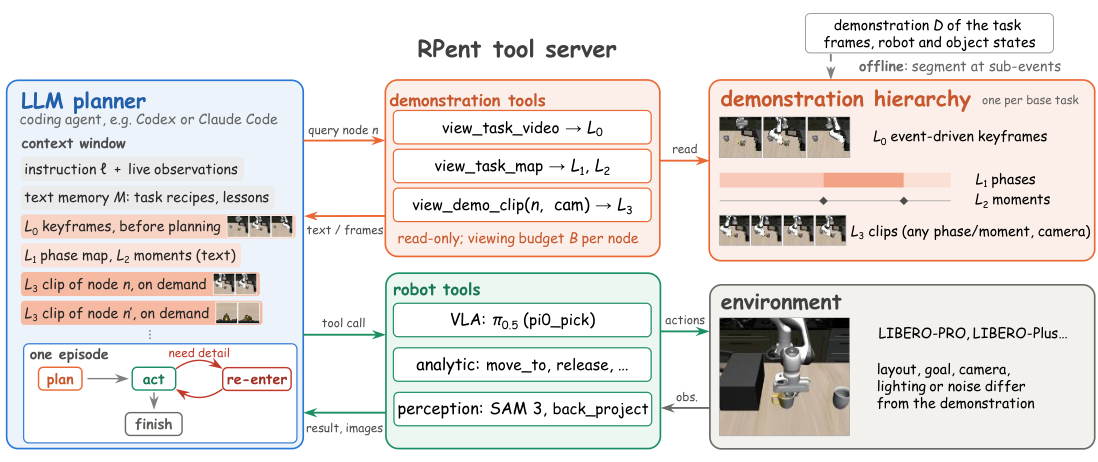
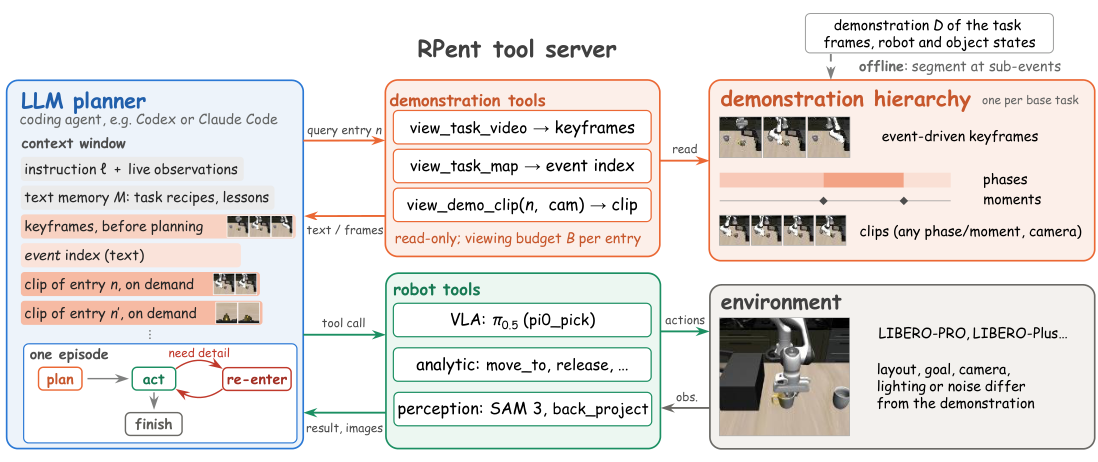
Hierarchy shown as keyframes and an event index

diff --git a/index.html b/index.html
@@ -210,6 +210,8 @@ p { margin: 0; }
 .lv-h { display: flex; gap: 10px; align-items: baseline; flex-wrap: wrap; }
 .lv-h strong { font-family: var(--display); font-stretch: 108%; font-weight: 700; font-size: 1rem; }
 .lv-h span.d { color: var(--ink-3); font-size: 14.5px; }
+.lv-h.sub strong { font-size: 0.92rem; font-weight: 600; }
+.lvgroup { display: flex; flex-direction: column; gap: 14px; min-width: 0; padding-left: 14px; border-left: 2px solid var(--line); }
 .kfstrip { display: grid; grid-template-columns: repeat(8, minmax(0, 1fr)); gap: 4px; }
 .kfb { border: 0; padding: 0; background: none; cursor: pointer; border-radius: 4px; overflow: hidden; outline-offset: 1px; }
 .kfb .kf { border-radius: 4px; }
@@ -378,7 +380,7 @@ footer a { color: var(--ink-2); }
   <header>
     <span class="eyebrow">Method</span>
     <h2>A demonstration the agent can navigate</h2>
-    <p>Each demonstration is indexed offline at four levels. The agent reads the coarse levels once, then returns for one clip at a time.</p>
+    <p>Each demonstration is indexed offline as keyframes plus an event index. The agent reads both once, then returns for one clip at a time.</p>
   </header>
   <figure class="figure">
     <div class="plate"><img src="assets/architecture.png" alt="Architecture of RV-ICL on RPent: the LLM planner calls demonstration tools that read the hierarchy and robot tools that act on the environment." width="1098" height="462"></div>
@@ -386,13 +388,13 @@ footer a { color: var(--ink-2); }
   </figure>
   <div class="steps">
     <div class="step">
-      <div class="lvrow"><span class="chip l0">L0</span><span class="chip l12">L1</span><span class="chip l12">L2</span><span class="when">before the first action</span></div>
-      <h3>Coarse levels before planning</h3>
-      <p>Keyframes and the phase map. No clip yet.</p>
+      <div class="lvrow"><span class="chip l0">keyframes</span><span class="chip l12">event index</span><span class="when">before the first action</span></div>
+      <h3>Read once before planning</h3>
+      <p>Keyframes and the event index. No clip yet.</p>
       <div class="tools"><code>view_task_video</code><code>view_task_map</code></div>
     </div>
     <div class="step">
-      <div class="lvrow"><span class="chip l3">L3</span><span class="when">before a contact, or after a failed step</span></div>
+      <div class="lvrow"><span class="chip l3">clip</span><span class="when">before a contact, or after a failed step</span></div>
       <h3>Re-entry during execution</h3>
       <p>One clip of the current sub-goal.</p>
       <div class="tools"><code>view_demo_clip</code></div>
@@ -416,7 +418,7 @@ footer a { color: var(--ink-2); }
 <section class="sec" id="hierarchy">
   <header>
     <span class="eyebrow">The demonstration hierarchy</span>
-    <h2>One demonstration, indexed at four levels</h2>
+    <h2>One demonstration: keyframes and an event index</h2>
     <p>Pick a phase or a moment to see the clip the agent would get.</p>
   </header>
   <div class="ex">
@@ -425,7 +427,7 @@ footer a { color: var(--ink-2); }
         <video id="exv" src="assets/demo.mp4" muted playsinline preload="auto"></video>
         <div class="viewtags"><span>third-person</span><span>wrist</span></div>
       </div>
-      <div class="ex-label"><span class="chip l3" id="ex-chip">L3</span><b id="ex-name">clip of grasp 2</b><span id="ex-range">steps 179–219</span><button class="pbtn" id="ex-play" type="button">Play</button></div>
+      <div class="ex-label"><span class="chip l3" id="ex-chip">clip</span><b id="ex-name">grasp 2</b><span id="ex-range">steps 179–219</span><button class="pbtn" id="ex-play" type="button">Play</button></div>
       <pre class="maptext" aria-label="The phase map the agent reads">phase 1 [0,62) open: approach
 phase 2 [62,109) closed: opens flat_stove_1
 phase 3 [109,203) open: retreat
@@ -436,11 +438,13 @@ goal: (And (Turnon flat_stove_1) (On moka_pot_1 flat_stove_1_cook_region))</pre>
     </div>
     <div class="ex-levels">
       <div class="lv">
-        <div class="lv-h"><span class="chip l0">L0</span><strong>Keyframes</strong><span class="d">around every grasp and release</span></div>
+        <div class="lv-h"><strong>Keyframes</strong><span class="d">around every grasp and release</span></div>
         <div class="kfstrip" id="ex-kf"></div>
       </div>
+      <div class="lvgroup">
+      <div class="lv-h"><strong>Event index</strong><span class="d">each entry names a step, its clip shows it</span></div>
       <div class="lv">
-        <div class="lv-h"><span class="chip l12">L1</span><strong>Phases</strong><span class="d">between gripper events, as text</span></div>
+        <div class="lv-h sub"><strong>Phases</strong><span class="d">between gripper events, as text</span></div>
         <div class="lanes" id="ex-lanes">
           <div class="lane" id="lane-kf" aria-hidden="true"></div>
           <div class="lane" id="lane-ph" aria-hidden="true"></div>
@@ -450,11 +454,12 @@ goal: (And (Turnon flat_stove_1) (On moka_pot_1 flat_stove_1_cook_region))</pre>
         <div class="opts" id="ex-ph"></div>
       </div>
       <div class="lv">
-        <div class="lv-h"><span class="chip l12">L2</span><strong>Moments</strong><span class="d">short windows around each sub-event</span></div>
+        <div class="lv-h sub"><strong>Moments</strong><span class="d">short windows around each sub-event</span></div>
         <div class="opts" id="ex-mo"></div>
       </div>
       <div class="lv">
-        <div class="lv-h"><span class="chip l3">L3</span><strong>Clips</strong><span class="d">frames of one phase or moment, loaded on demand</span></div>
+        <div class="lv-h sub"><strong>Clips</strong><span class="d">the frames behind an entry, loaded on demand</span></div>
+      </div>
       </div>
     </div>
   </div>
@@ -509,7 +514,7 @@ moments: grasp 1 (62), open flat_stove_1 (100), release 1 (109), grasp 2 (203), 
       <div class="legend">
         <span><i class="sw" style="background:var(--stage-move)"></i>analytic move</span>
         <span><i class="sw" style="background:var(--coarse)"></i>π0.5 policy</span>
-        <span><i class="sw di" style="background:var(--coarse)"></i>reads L0–L2</span>
+        <span><i class="sw di" style="background:var(--coarse)"></i>reads keyframes + index</span>
         <span><i class="sw di" style="background:var(--look)"></i>opens a clip</span>
       </div>
     </div>
@@ -683,8 +688,8 @@ moments: grasp 1 (62), open flat_stove_1 (100), release 1 (109), grasp 2 (203), 
     $("dm-state").textContent = "open";
     $("dm-coarse").hidden = !l.coarse; $("dm-tags").hidden = !!l.coarse;
     var c = $("dm-call"); c.textContent = "";
-    if (l.coarse) { c.appendChild(el("span", "chip l0", "L0")); c.appendChild(el("span", "chip l12", "L1, L2")); }
-    else c.appendChild(el("span", "chip l3", "L3 clip"));
+    if (l.coarse) { c.appendChild(el("span", "chip l0", "keyframes")); c.appendChild(el("span", "chip l12", "index")); }
+    else c.appendChild(el("span", "chip l3", "clip"));
     c.appendChild(el("span", "mono", l.call));
     if (l.of > 1) c.appendChild(el("span", "again", "look " + l.nth + " of " + l.of + " at this clip"));
     $("dm-quote").textContent = "“" + l.q + "”";
@@ -778,14 +783,14 @@ moments: grasp 1 (62), open flat_stove_1 (100), release 1 (109), grasp 2 (203), 
   function exPlay(on) { if (on) { var p = exv.play(); if (p && p.catch) p.catch(function () {}); } else exv.pause(); $("ex-play").textContent = on ? "Pause" : "Play"; }
   function exSelect(a, b, name, b1, mark, go) {
     exClear(); b1.setAttribute("aria-pressed", "true"); mark.classList.add("on"); exRange = [a, b];
-    exLabel("l3", "L3", "clip of " + (name === "end" ? "the episode end" : name), "steps " + a + "–" + b);
+    exLabel("l3", "clip", (name === "end" ? "episode end" : name), "steps " + a + "–" + b);
     try { exv.currentTime = a / FPS; } catch (e) {} exPlay(go);
   }
   KF.forEach(function (k, i) {
     var b = el("button", "kfb"); b.type = "button"; b.appendChild(kfCell(i)); b.setAttribute("aria-pressed", "false");
     b.setAttribute("aria-label", "Keyframe " + (i + 1) + ", step " + k[0] + (k[1] ? ", " + k[1] : ""));
     b.dataset.tip = "Keyframe " + (i + 1) + " · step " + k[0] + (k[1] ? " · " + k[1] : "");
-    b.addEventListener("click", function () { exClear(); b.setAttribute("aria-pressed", "true"); exRange = null; exPlay(false); try { exv.currentTime = k[0] / FPS; } catch (e) {} exLabel("l0", "L0", "keyframe " + (i + 1) + (k[1] ? " · " + k[1] : ""), "step " + k[0]); });
+    b.addEventListener("click", function () { exClear(); b.setAttribute("aria-pressed", "true"); exRange = null; exPlay(false); try { exv.currentTime = k[0] / FPS; } catch (e) {} exLabel("l0", "keyframe", (i + 1) + (k[1] ? " · " + k[1] : ""), "step " + k[0]); });
     $("ex-kf").appendChild(b); exBtns.push(b);
     var t = el("i", "tick"); t.style.left = pct(k[0]); $("lane-kf").appendChild(t);
   });
